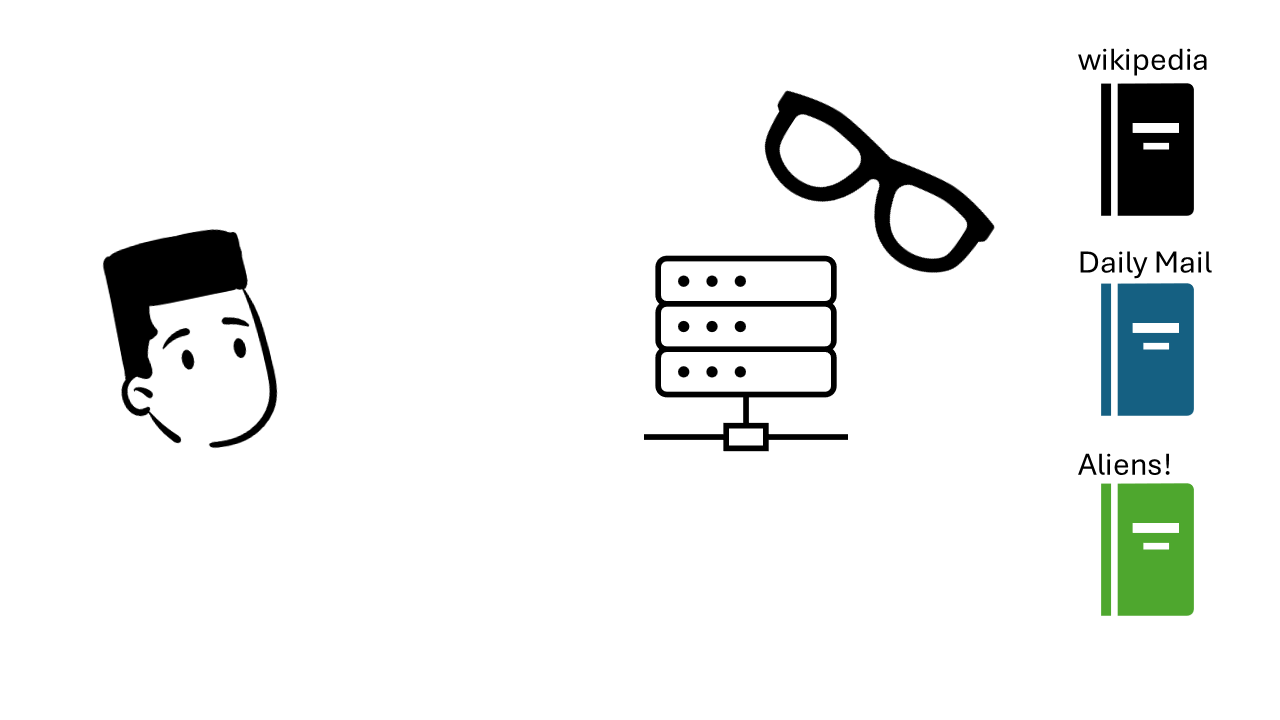
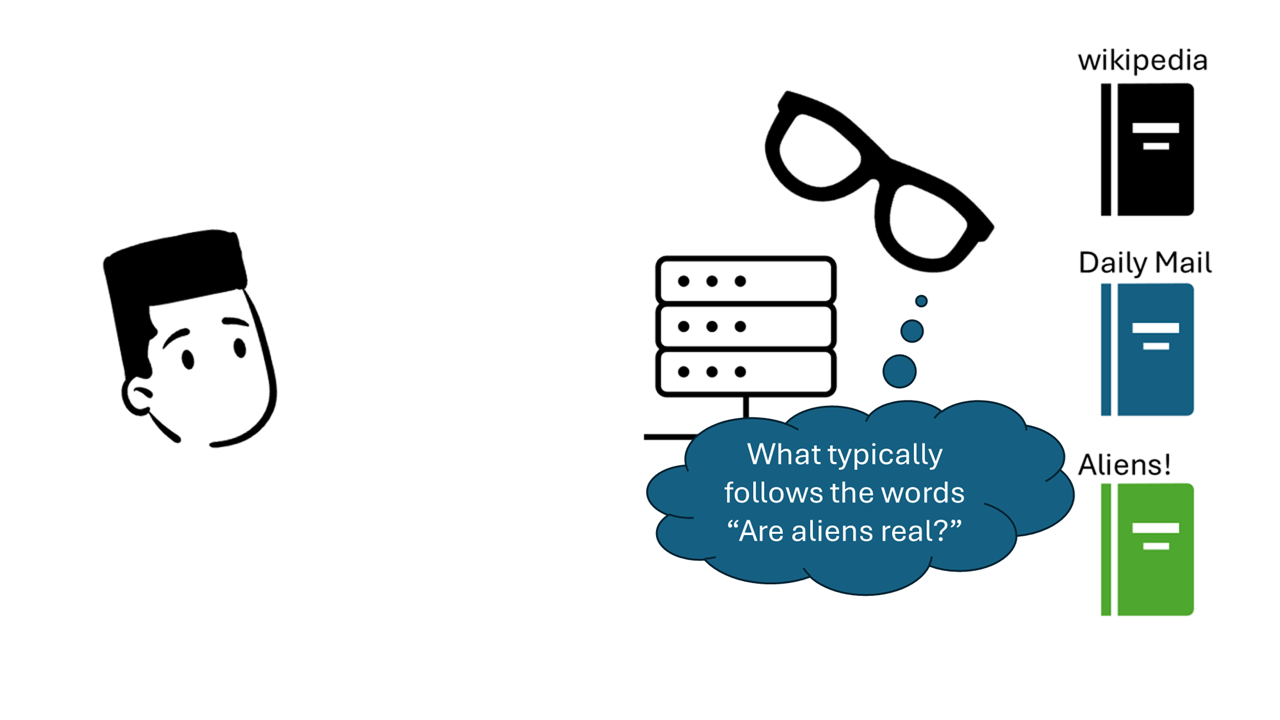
Rag presentation final

diff --git a/public/consulting/What is RAG and how to get it right/index.html b/public/consulting/What is RAG and how to get it right/index.html
@@ -157,6 +157,14 @@ I WANT...
 <div class="" style="position: absolute; left: 0px; top: 0px; height: 700px; width: 960px; min-height: 700px; display: flex; flex-direction: column; align-items: center; justify-content: center" absolute="true">
 
 <img src="Files/attachments/rag risks _5_.png" alt="" style="object-fit: scale-down">
+</div></script></section><section data-markdown><script type="text/template"><!-- .slide: class="has-light-background drop" data-background-color="white" -->
+<div class="" style="position: absolute; left: 0px; top: 0px; height: 700px; width: 960px; min-height: 700px; display: flex; flex-direction: column; align-items: center; justify-content: center" absolute="true">
+
+## and serious use-cases:
+
+- Find information faster
+- Bespoke chatbots
+- Generate 'on-brand' content faster
 </div></script></section></section><section ><section data-markdown><script type="text/template"><!-- .slide: class="drop" -->
 <div class="" style="position: absolute; left: 0px; top: 0px; height: 700px; width: 960px; min-height: 700px; display: flex; flex-direction: column; align-items: center; justify-content: center" absolute="true">
 
@@ -166,15 +174,15 @@ I WANT...
 </div></script></section><section data-markdown><script type="text/template"><!-- .slide: class="has-light-background drop" data-background-color="white" -->
 <div class="" style="position: absolute; left: 0px; top: 0px; height: 700px; width: 960px; min-height: 700px; display: flex; flex-direction: column; align-items: center; justify-content: center" absolute="true">
 
-- RAGs "picks" the _n_ chunks that are most like the question 
-- What's a chunk? 
-<img src="Files/attachments/image-54.png" alt="" style="width: 600px; object-fit: fill">
-</div></script></section><section data-markdown><script type="text/template"><!-- .slide: class="has-light-background drop" data-background-color="white" -->
-<div class="" style="position: absolute; left: 0px; top: 0px; height: 700px; width: 960px; min-height: 700px; display: flex; flex-direction: column; align-items: center; justify-content: center" absolute="true">
-
 <img src="Files/attachments/image-52.png" alt="" style="width: 800px; object-fit: fill">
 
 [source: masteringllm.medium.com](https://masteringllm.medium.com/11-chunking-strategies-for-rag-simplified-visualized-df0dbec8e373)
+</div></script></section><section data-markdown><script type="text/template"><!-- .slide: class="has-light-background drop" data-background-color="white" -->
+<div class="" style="position: absolute; left: 0px; top: 0px; height: 700px; width: 960px; min-height: 700px; display: flex; flex-direction: column; align-items: center; justify-content: center" absolute="true">
+
+- RAGs "picks" the _n_ chunks that are most like the question 
+- What's a chunk? 
+<img src="Files/attachments/image-54.png" alt="" style="width: 600px; object-fit: fill">
 </div></script></section><section data-markdown><script type="text/template"><!-- .slide: class="has-light-background drop" data-background-color="white" -->
 <div class="" style="position: absolute; left: 0px; top: 0px; height: 700px; width: 960px; min-height: 700px; display: flex; flex-direction: column; align-items: center; justify-content: center" absolute="true">
 
@@ -233,6 +241,12 @@ I WANT...
 </div></script></section><section data-markdown><script type="text/template"><!-- .slide: class="has-light-background drop" data-background-color="white" -->
 <div class="" style="position: absolute; left: 0px; top: 0px; height: 700px; width: 960px; min-height: 700px; display: flex; flex-direction: column; align-items: center; justify-content: center" absolute="true">
 
+#### The paragraph needs to know where it came from
+
+<img src="Files/attachments/image-54.png" alt="" style="width: 800px; object-fit: fill">
+</div></script></section><section data-markdown><script type="text/template"><!-- .slide: class="has-light-background drop" data-background-color="white" -->
+<div class="" style="position: absolute; left: 0px; top: 0px; height: 700px; width: 960px; min-height: 700px; display: flex; flex-direction: column; align-items: center; justify-content: center" absolute="true">
+
 #### Recency vs. accuracy trade-offs  
 <img src="Files/attachments/image-43.png" alt="" style="width: 400px; object-fit: fill">
 </div></script></section><section data-markdown><script type="text/template"><!-- .slide: class="has-light-background drop" data-background-color="white" -->
@@ -240,12 +254,6 @@ I WANT...
 
 #### Chunks that don’t understand context  
 <img src="Files/attachments/image-45.png" alt="" style="width: 400px; object-fit: fill">
-</div></script></section><section data-markdown><script type="text/template"><!-- .slide: class="has-light-background drop" data-background-color="white" -->
-<div class="" style="position: absolute; left: 0px; top: 0px; height: 700px; width: 960px; min-height: 700px; display: flex; flex-direction: column; align-items: center; justify-content: center" absolute="true">
-
-#### The paragraph needs to know where it came from
-
-<img src="Files/attachments/image-54.png" alt="" style="width: 800px; object-fit: fill">
 </div></script></section></section><section ><section data-markdown><script type="text/template"><!-- .slide: class="drop" -->
 <div class="" style="position: absolute; left: 0px; top: 0px; height: 700px; width: 960px; min-height: 700px; display: flex; flex-direction: column; align-items: center; justify-content: center" absolute="true">
 
